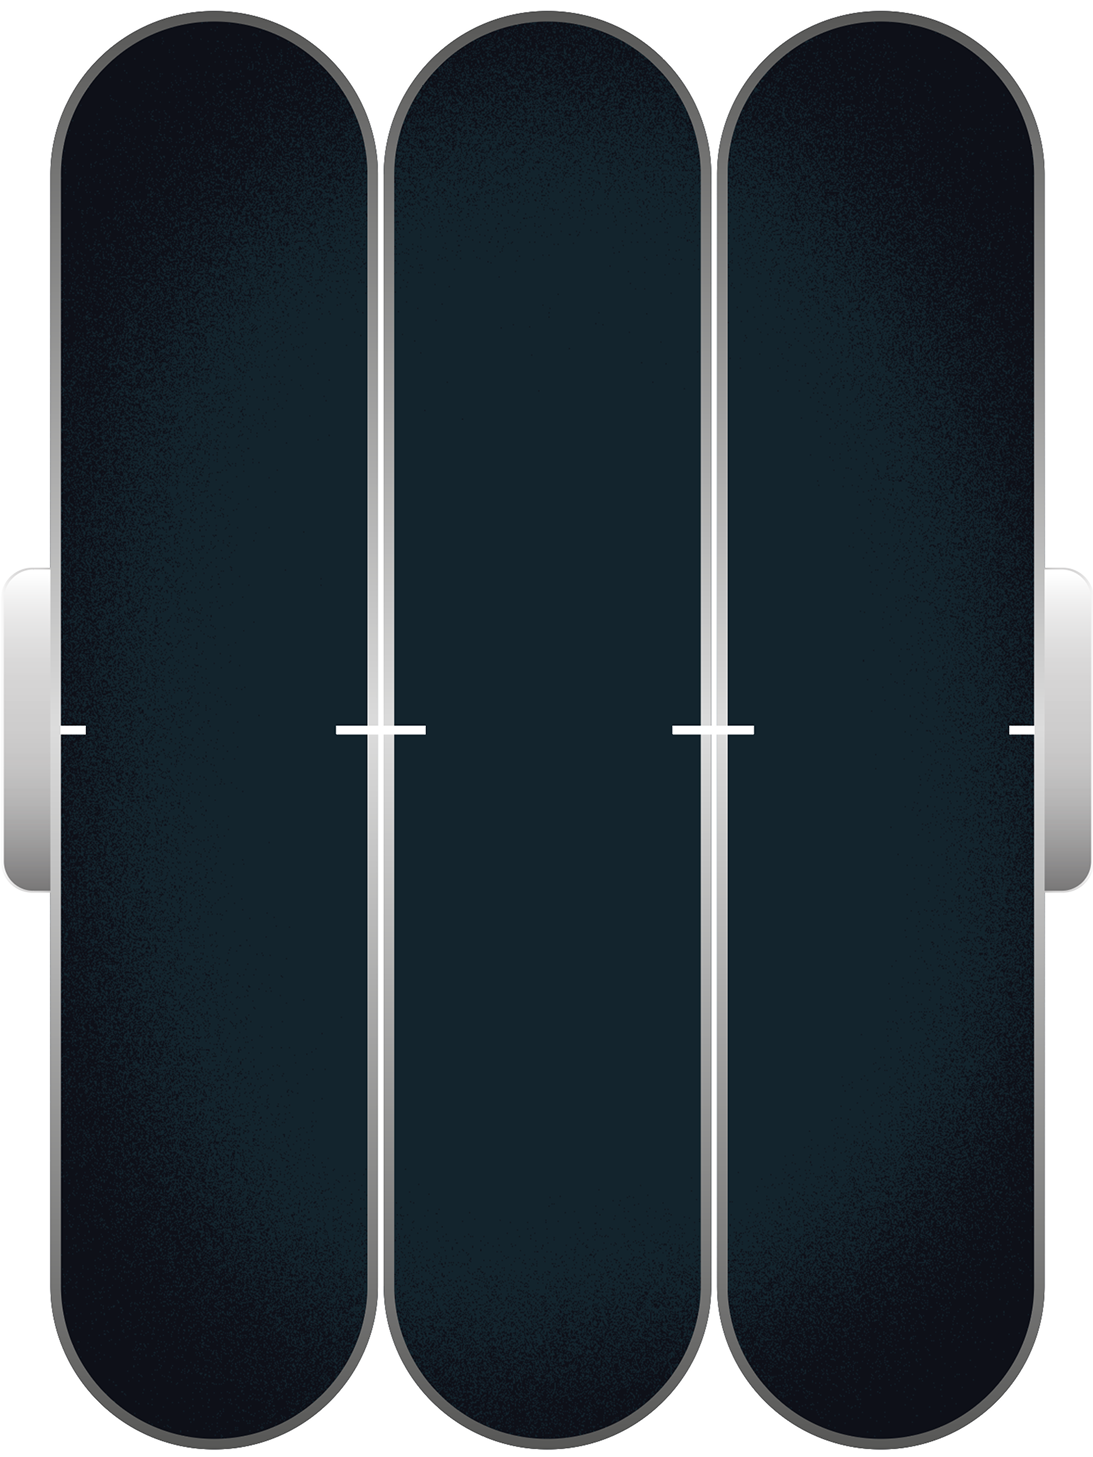
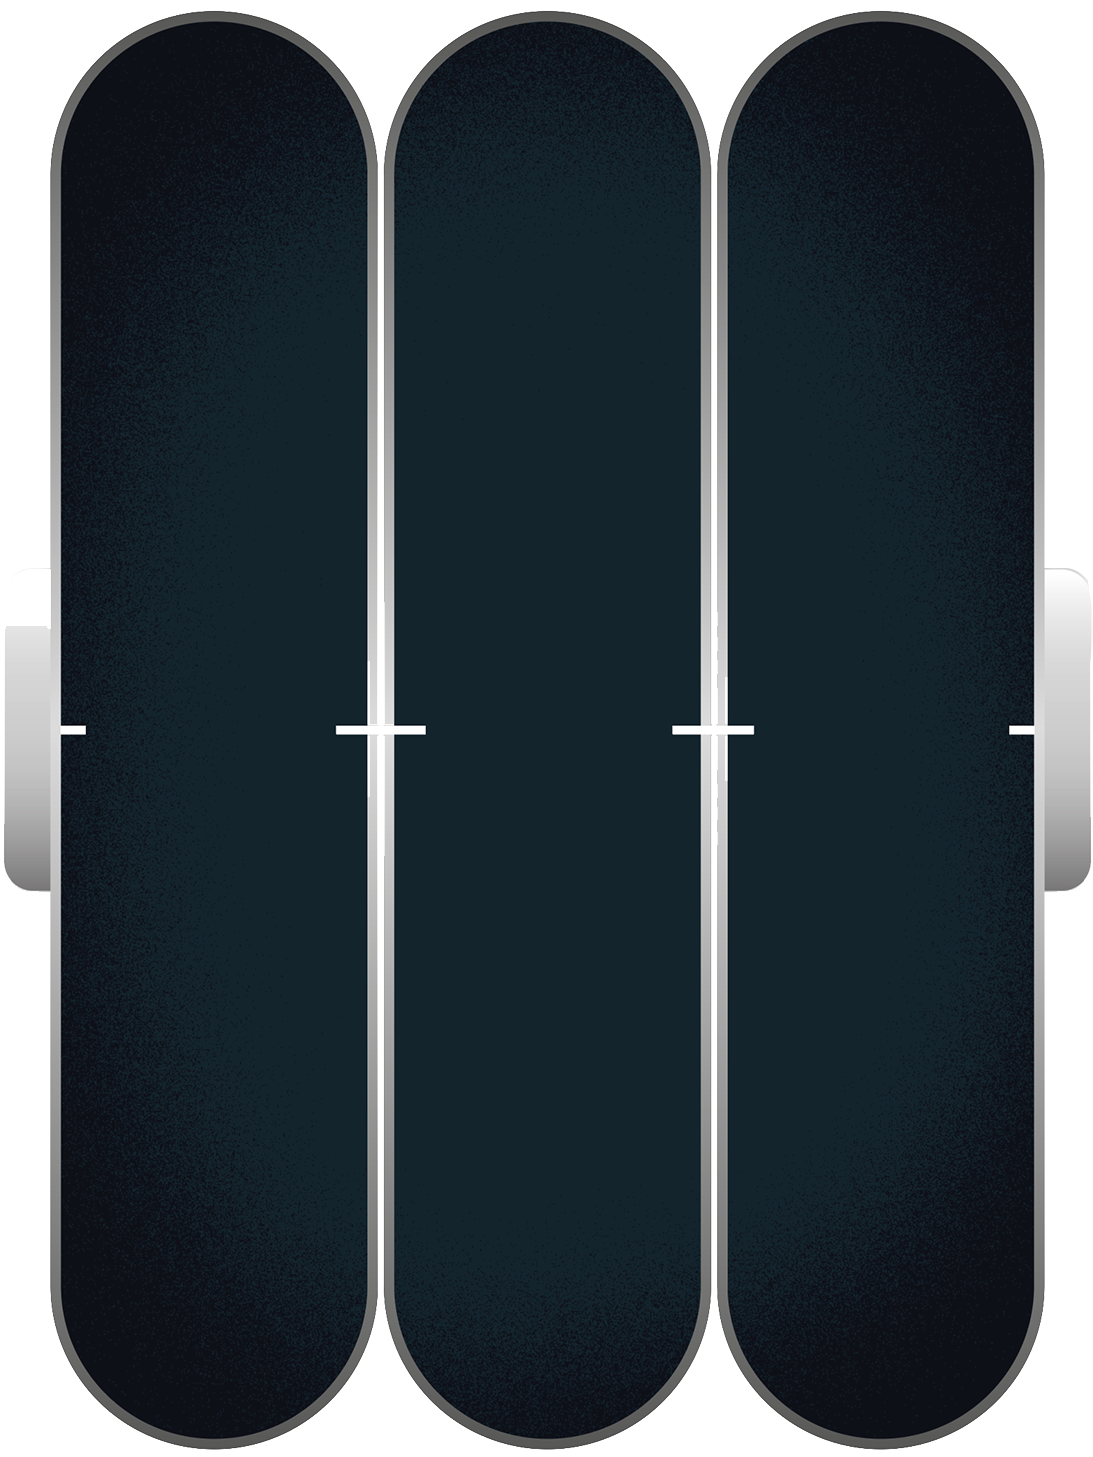
shader al fin

Changed region(s): [[0.9954, 0.4633, 1.0, 0.5868]]

diff --git a/css/pantalla3.css b/css/pantalla3.css
@@ -2,19 +2,21 @@
 
 :root {
   --game-width: 1080px;
-  --game-height: 1440px;
+  --game-height: 1920px;
   --reel-width: 300px;
   --reel-height: 1120px; /* altura mayor para reducir espacios vacíos superior/inferior */
   --tile-height: 260px;
   /* frame-offset-y eliminado: se usa centro geométrico del reel */
 }
 
-html, body { width: 100%; height: 100%; overflow: hidden; background: transparent; font-family: 'Ubuntu', Arial, sans-serif; }
+html, body { width: 100%; height: 100%; min-height: 100vh; overflow: hidden; background: #1ca0be; font-family: 'Ubuntu', Arial, sans-serif; margin: 0; padding: 0; }
 
-.game-container { position: relative; width: var(--game-width); height: var(--game-height); margin: 0 auto; overflow: hidden; }
-.game-background { position: absolute; inset: 0; width: 100%; height: 100%; object-fit: cover; z-index: 1; }
+.game-container { position: relative; width: var(--game-width); height: var(--game-height); margin: 0 auto; background: #1ca0be; }
+.background-layer { position: absolute; inset: 0; z-index: 0; }
+.background-canvas { position: absolute; top: 0; left: 0; width: 100%; height: 100%; display: block; }
+.game-background { position: absolute; inset: 0; width: 100%; height: auto; max-height: 1440px; object-fit: contain; z-index: 1; }
 
-.machine { position: relative; z-index: 2; width: 100%; height: 100%; display: flex; flex-direction: column; align-items: center; justify-content: center; }
+.machine { position: absolute; top: 0; left: 0; z-index: 2; width: 100%; height: 1440px; display: flex; flex-direction: column; align-items: center; justify-content: center; }
 
 .reels { display: flex; gap: 36px; align-items: center; justify-content: center; margin-top: 4%; }
 

diff --git a/pantalla3.html b/pantalla3.html
@@ -8,6 +8,11 @@
 </head>
 <body>
     <div class="game-container">
+        <!-- Fondo: shader WebGL con fallback a color sólido -->
+        <div class="background-layer">
+            <canvas id="bgCanvas" class="background-canvas"></canvas>
+        </div>
+        
         <img src="assets/gamescreen/fondomachine.png" alt="Fondo máquina" class="game-background">
 
         <section class="machine" aria-label="Máquina tragamonedas">
@@ -28,6 +33,7 @@
         </section>
     </div>
 
+    <script src="js/bg-shader.js"></script>
     <script src="js/slot.js"></script>
 </body>
 </html>

diff --git a/css/style.css b/css/style.css
@@ -31,7 +31,7 @@ body, html {
 .container {
     position: relative;
     width: 1080px;
-    height: 1440px;
+    height: 1920px;
     margin: 0 auto;
     overflow: hidden;
 }
